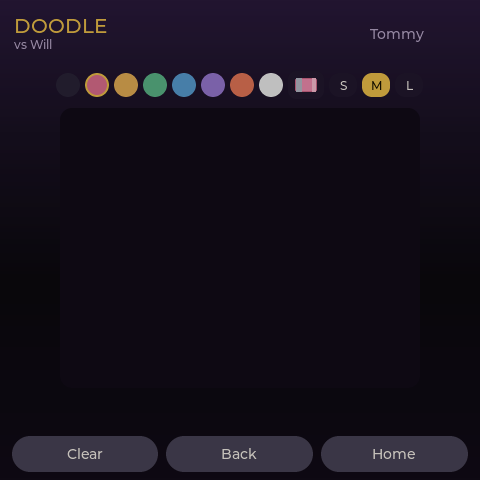
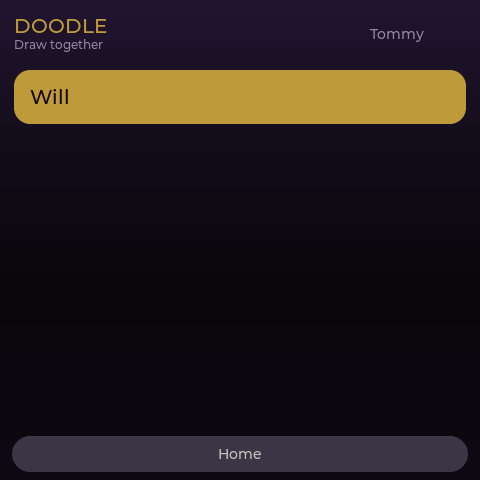
Expand README screenshot gallery to every screen.
Add QA jumps for hub/bg-upload/OTA/STTT play and capture shell, pager, games, utils, doodle, and settings including background QR upload.

diff --git a/firmware/src/main.cpp b/firmware/src/main.cpp
@@ -65,49 +65,20 @@ int main() {
   else if (!wp::app::desk().setup_done) wp::ui::go_setup();
   else wp::ui::go_hub();
 
-  /* WERKPAGER_SCREEN=<name> — jump to any screen for visual QA. */
+  /* WERKPAGER_SCREEN=<name> — jump to any screen for visual QA / README shots. */
   if (qa_jump) {
     using namespace wp::ui;
     using namespace wp::app;
     auto is = [scr_name](const char * v) { return std::strcmp(scr_name, v) == 0; };
     if (is("splash")) go_splash();
-    else if (is("gamesfolder")) go_games_folder();
-    else if (is("ttt")) go_ttt();
-    else if (is("ttt-play")) games_debug_show("ttt", "play");
-    else if (is("ttt-win")) games_debug_show("ttt", "win");
-    else if (is("ttt-lose")) games_debug_show("ttt", "lose");
-    else if (is("c4")) go_c4();
-    else if (is("c4-play")) games_debug_show("c4", "play");
-    else if (is("c4-win")) games_debug_show("c4", "win");
-    else if (is("bs")) go_battleship();
-    else if (is("bs-setup")) games_debug_show("bs", "setup");
-    else if (is("bs-play")) games_debug_show("bs", "play");
-    else if (is("bs-defense")) games_debug_show("bs", "defense");
-    else if (is("bs-win")) games_debug_show("bs", "win");
-    else if (is("ck-play")) games_debug_show("ck", "play");
-    else if (is("ck-win")) games_debug_show("ck", "win");
-    else if (is("mem-play")) games_debug_show("mem", "play");
-    else if (is("doodle")) go_doodle();
-    else if (is("doodle-draw")) doodle_debug_show_draw();
-    else if (is("settings")) go_settings();
-    else if (is("timer")) go_timer();
-    else if (is("utilsfolder") || is("utils")) go_utils_folder();
-    else if (is("checklist")) go_checklist();
-    else if (is("calculator") || is("calc")) go_calculator();
-    else if (is("page-history") || is("history")) go_page_history();
-    else if (is("scoreboard")) go_scoreboard();
+    else if (is("hub") || is("home")) go_hub();
     else if (is("setup")) go_setup();
-    else if (is("reversi") || is("rv")) go_reversi();
-    else if (is("rv-play")) games_debug_show("rv", "play");
-    else if (is("dots") || is("db")) go_dots();
-    else if (is("db-play")) games_debug_show("db", "play");
-    else if (is("sttt")) go_sttt();
-    else if (is("settings-scrolled")) {
-      go_settings();
-      lv_obj_t * body = lv_obj_get_child(lv_screen_active(), 1);
-      if (body) lv_obj_scroll_to_y(body, 900, LV_ANIM_OFF);
-    }
+    else if (is("idle")) go_idle();
     else if (is("werk")) go_werk();
+    else if (is("compose")) {
+      if (desk().peer_count > 0) go_compose(desk().peers[0]);
+      else go_werk();
+    }
     else if (is("outgoing")) {
       Desk & d = desk();
       d.outgoing.active = true;
@@ -126,12 +97,50 @@ int main() {
       std::snprintf(d.incoming.message, sizeof(d.incoming.message), "Lipsync for your life");
       go_incoming();
     }
+    else if (is("page-history") || is("history")) go_page_history();
+    else if (is("gamesfolder") || is("games")) go_games_folder();
+    else if (is("ttt")) go_ttt();
+    else if (is("ttt-play")) games_debug_show("ttt", "play");
+    else if (is("ttt-win")) games_debug_show("ttt", "win");
+    else if (is("ttt-lose")) games_debug_show("ttt", "lose");
+    else if (is("sttt")) go_sttt();
+    else if (is("sttt-play")) games_debug_show("sttt", "play");
+    else if (is("c4")) go_c4();
+    else if (is("c4-play")) games_debug_show("c4", "play");
+    else if (is("c4-win")) games_debug_show("c4", "win");
+    else if (is("bs")) go_battleship();
+    else if (is("bs-setup")) games_debug_show("bs", "setup");
+    else if (is("bs-play")) games_debug_show("bs", "play");
+    else if (is("bs-defense")) games_debug_show("bs", "defense");
+    else if (is("bs-win")) games_debug_show("bs", "win");
+    else if (is("ck") || is("checkers")) go_checkers();
+    else if (is("ck-play")) games_debug_show("ck", "play");
+    else if (is("ck-win")) games_debug_show("ck", "win");
+    else if (is("mem") || is("memory")) go_memory();
+    else if (is("mem-play")) games_debug_show("mem", "play");
+    else if (is("reversi") || is("rv")) go_reversi();
+    else if (is("rv-play")) games_debug_show("rv", "play");
+    else if (is("dots") || is("db")) go_dots();
+    else if (is("db-play")) games_debug_show("db", "play");
+    else if (is("scoreboard")) go_scoreboard();
+    else if (is("utilsfolder") || is("utils")) go_utils_folder();
+    else if (is("timer")) go_timer();
+    else if (is("checklist")) go_checklist();
+    else if (is("calculator") || is("calc")) go_calculator();
+    else if (is("doodle")) go_doodle();
+    else if (is("doodle-draw")) doodle_debug_show_draw();
+    else if (is("settings")) go_settings();
+    else if (is("settings-scrolled")) {
+      go_settings();
+      lv_obj_t * body = lv_obj_get_child(lv_screen_active(), 1);
+      if (body) lv_obj_scroll_to_y(body, 900, LV_ANIM_OFF);
+    }
     else if (is("keyboard")) go_keyboard_name();
     else if (is("emoji")) go_emoji_picker(0);
-    else if (is("compose")) {
-      if (desk().peer_count > 0) go_compose(desk().peers[0]);
-    }
-    else if (is("idle")) go_idle();
+    else if (is("wifi") || is("wifi-scan")) go_wifi_scan();
+    else if (is("wifi-pass")) go_keyboard_wifi_pass();
+    else if (is("ota") || is("updates")) go_ota_releases();
+    else if (is("bg-upload") || is("background")) go_bg_upload();
   }
 
   if (const char * inc = std::getenv("WERKPAGER_INCOMING"); inc && inc[0] == '1') {

diff --git a/firmware/src/ui/scr_games.cpp b/firmware/src/ui/scr_games.cpp
@@ -2901,6 +2901,21 @@ void games_debug_show(const char * game, const char * panel) {
       d.ttt.result_dismissed = false;
     }
     go_ttt();
+  } else if (game && !std::strcmp(game, "sttt")) {
+    d.sttt = {};
+    d.sttt.active = true;
+    d.sttt.waiting = panel && !std::strcmp(panel, "wait");
+    d.sttt.mark = 'X';
+    d.sttt.turn = 'X';
+    games::sttt::init(d.sttt.boards, d.sttt.meta, d.sttt.next_board);
+    seed_peer(d.sttt);
+    if (panel && !std::strcmp(panel, "play")) {
+      d.sttt.boards[0][0] = 'X';
+      d.sttt.boards[0][4] = 'O';
+      d.sttt.boards[4][4] = 'X';
+      d.sttt.next_board = 4;
+    }
+    go_sttt();
   } else if (game && !std::strcmp(game, "c4")) {
     d.c4 = {};
     d.c4.active = true;

diff --git a/README.md b/README.md
@@ -8,13 +8,57 @@ Active development is the **LVGL PC simulator** under `firmware/` — the same U
 
 ## Screenshots
 
-| Home | Incoming page | Games |
-|:----:|:-------------:|:-----:|
-| ![Home hub](docs/screenshots/hub.png) | ![Incoming Werk](docs/screenshots/incoming.png) | ![Games folder](docs/screenshots/games.png) |
+LVGL PC sim (480×480). One shot per screen; games show a mid-play board.
 
-| Checkers | Doodle | Timer |
-|:--------:|:------:|:-----:|
-| ![Checkers](docs/screenshots/checkers.png) | ![Doodle](docs/screenshots/doodle.png) | ![Timer](docs/screenshots/timer.png) |
+### Shell
+
+| Splash | Setup | Home | Idle |
+|:------:|:-----:|:----:|:----:|
+| ![Splash](docs/screenshots/splash.png) | ![Setup](docs/screenshots/setup.png) | ![Home](docs/screenshots/hub.png) | ![Idle](docs/screenshots/idle.png) |
+
+### WerkPager
+
+| Peers | Compose | Outgoing | Incoming |
+|:-----:|:-------:|:--------:|:--------:|
+| ![Werk](docs/screenshots/werk.png) | ![Compose](docs/screenshots/compose.png) | ![Outgoing](docs/screenshots/outgoing.png) | ![Incoming](docs/screenshots/incoming.png) |
+
+| Page history | | | |
+|:------------:|---|---|---|
+| ![Page history](docs/screenshots/page-history.png) | | | |
+
+### Games
+
+| Folder | Tic Tac Toe | Super TTT | Connect Four |
+|:------:|:-----------:|:---------:|:------------:|
+| ![Games](docs/screenshots/games.png) | ![TTT](docs/screenshots/ttt.png) | ![STTT](docs/screenshots/sttt.png) | ![C4](docs/screenshots/c4.png) |
+
+| Battleship | Checkers | Memory | Reversi |
+|:----------:|:--------:|:------:|:-------:|
+| ![Battleship](docs/screenshots/battleship.png) | ![Checkers](docs/screenshots/checkers.png) | ![Memory](docs/screenshots/memory.png) | ![Reversi](docs/screenshots/reversi.png) |
+
+| Dots & Boxes | Scoreboard | | |
+|:------------:|:----------:|---|---|
+| ![Dots](docs/screenshots/dots.png) | ![Scoreboard](docs/screenshots/scoreboard.png) | | |
+
+### Utilities & doodle
+
+| Utils | Timer | Checklist | Calculator |
+|:-----:|:-----:|:---------:|:----------:|
+| ![Utils](docs/screenshots/utils.png) | ![Timer](docs/screenshots/timer.png) | ![Checklist](docs/screenshots/checklist.png) | ![Calculator](docs/screenshots/calculator.png) |
+
+| Doodle pick | Doodle draw | | |
+|:-----------:|:-----------:|---|---|
+| ![Doodle](docs/screenshots/doodle.png) | ![Doodle draw](docs/screenshots/doodle-draw.png) | | |
+
+### Settings
+
+| Settings | Keyboard | Emoji picker | Wi‑Fi scan |
+|:--------:|:--------:|:------------:|:----------:|
+| ![Settings](docs/screenshots/settings.png) | ![Keyboard](docs/screenshots/keyboard.png) | ![Emoji](docs/screenshots/emoji.png) | ![Wi‑Fi](docs/screenshots/wifi.png) |
+
+| Wi‑Fi password | Updates (OTA) | Background QR upload | |
+|:--------------:|:-------------:|:--------------------:|---|
+| ![Wi‑Fi password](docs/screenshots/wifi-pass.png) | ![OTA](docs/screenshots/ota.png) | ![Background upload](docs/screenshots/bg-upload.png) | |
 
 ---
 
